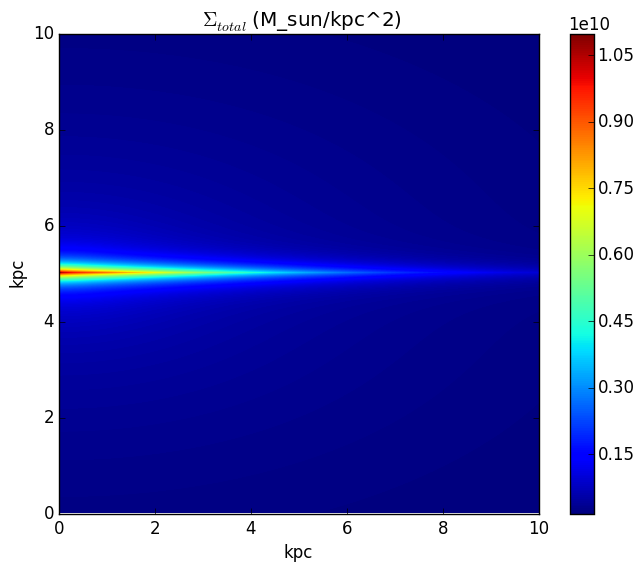
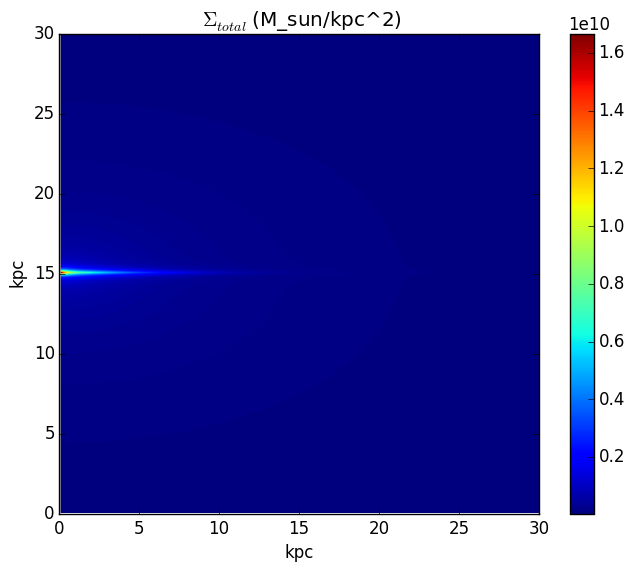
update mass fraction code

diff --git a/python/disky_lineofsight.py b/python/disky_lineofsight.py
@@ -3,6 +3,7 @@ import matplotlib.pyplot as plt
 import scipy.special
 import pyfits
 import scipy.interpolate
+import scipy.integrate
 
 # thin disk
 class thin:
@@ -22,8 +23,15 @@ rho_h0=0.00846*10**9
 rh=20.2
 dc=1#.6
 
+# bulge
+alpha=1.8
+r0=0.075
+rcut=2.1
+q=0.5
+rho_b0=9.93e10
 
-# line of sight mass density
+
+# line of sight mass surface density
 def disk(y,z,dtype):
 	sigma=2*dtype.sig/2/dtype.zd*y*np.exp(-1*np.abs(z)/dtype.zd)*scipy.special.kn(1,y/dtype.Rd)
 
@@ -44,15 +52,19 @@ def NFW(y,z):
 	sigma=sigma1+sigma2
 	return sigma
 
+## bulge (3D profile)
 
-def cylinder_massfraction(disk,halo,radius):
-	# disk mass grid, halo mass grid, cylinder radius
+def cylinder_massfraction(disk,bulge,halo,radius):
+	# disk mass grid, bulge mass grid, halo mass grid, cylinder radius
+	# output: log(M_disk),log(M_bulge),log(M_halo),log(M_total),disk mass fraction
+
 	r=np.sqrt(y**2+z**2)
 	flag=np.less_equal(r,radius)
 
 	# flag mass
 	disk=disk*flag
 	halo=halo*flag
+	bulge=bulge*flag
 
 	# get rid of nan
 	disk[:,0]=0.0
@@ -61,11 +73,29 @@ def cylinder_massfraction(disk,halo,radius):
 	mass_d=scipy.interpolate.RectBivariateSpline(dz,dy,disk)
 	mass_d=scipy.interpolate.RectBivariateSpline.integral(mass_d,-radius,radius,0,radius)
 
+	mass_b=scipy.interpolate.RectBivariateSpline(dz,dy,bulge)
+	mass_b=scipy.interpolate.RectBivariateSpline.integral(mass_b,-radius,radius,0,radius)
+
 	mass_h=scipy.interpolate.RectBivariateSpline(dz,dy,halo)
 	mass_h=scipy.interpolate.RectBivariateSpline.integral(mass_h,-radius,radius,0,radius)
 
-	return mass_d/(mass_h+mass_d)
+	return np.log10(mass_d),np.log10(mass_b), np.log10(mass_h), np.log10(mass_h+mass_d+mass_b),mass_d/(mass_h+mass_d+mass_b)
+	#return mass_d/(mass_h+mass_d)
 
+def num_bulge(y,z):
+
+	sigma=np.zeros((len(z),len(y)))
+
+	for i in range(len(z)): # vertical index
+		print i
+		for j in range(len(y)):
+
+			bulge3d=lambda R: R*np.exp(-(R**2+z[i]**2/q**2))/(np.sqrt(R**2-y[j]**2)*(1+np.sqrt(R**2+z[i]**2/q**2)/r0)**alpha)
+			I=scipy.integrate.quad(bulge3d,y[j],np.inf)
+
+			sigma[i,j]=2*rho_b0*I[0]
+
+	return sigma
 
 
 ## plot line of sight desity profile
@@ -77,43 +107,86 @@ z=0.0
 '''
 
 ## 2D plot
-dy=np.linspace(0,10,10*100)
-dz=np.linspace(-10,10,20*100)
+radius=30 # kpc
+dy=np.linspace(0,radius,radius*10)
+dz=np.linspace(-1*radius,radius,2*radius*10)
 
 y,z=np.meshgrid(dy,dz)
 
 disk_thin=disk(y,z,thin)
 disk_thick=disk(y,z,thick)
 halo=NFW(y,z)
+bulge=num_bulge(dy,dz) # numerical bulge doesn't take meshgrid
 
 disk_mass=disk_thin+disk_thick
-total_mass=disk_thin+disk_thick+halo
+total_mass=disk_thin+disk_thick+halo+bulge
 #total_mass=np.log10(total_mass)
 
 
-'''
+
 ## cylinder flag
-
-print cylinder_massfraction(disk_mass,halo,10)
-print cylinder_massfraction(disk_mass,halo,4)
-print cylinder_massfraction(disk_mass,halo,8)
-print cylinder_massfraction(disk_mass,halo,10)
 '''
+enclose_mass=np.zeros((5,4))
+enclose_mass[:,0]=cylinder_massfraction(disk_mass,halo,2)
+enclose_mass[:,1]=cylinder_massfraction(disk_mass,halo,4)
+enclose_mass[:,2]=cylinder_massfraction(disk_mass,halo,8)
+enclose_mass[:,3]=cylinder_massfraction(disk_mass,halo,10)
 
-hdu=pyfits.PrimaryHDU(disk_mass)
-hdu.writeto('disk_project_mass.fits')
+plt.scatter(np.array([2,4,8,10]),enclose_mass[2,:],label='disk+halo',marker='^')
+plt.scatter(np.array([2,4,8,10]),enclose_mass[0,:],label='disk',color='r')
+plt.scatter(np.array([2,4,8,10]),enclose_mass[1,:],color='g',label='halo')
+plt.xlabel('kpc')
+plt.ylabel('log(M)')
+plt.title('log(enclosed total mass)')
+plt.legend(loc=4)
 
 '''
+mass_r=np.array([1,2,4,6,8,10,15,20,25,30])
+mass_f=np.zeros((len(mass_r),5))
+
+for i in range(len(mass_r)):
+	mass_f[i,:]=cylinder_massfraction(disk_mass,bulge,halo,mass_r[i])
+
+#print mass_f.shape
+
+plt.figure(1)
+plt.scatter(mass_r,mass_f[:,4])
+plt.axvline(x=2,ymax=0.7)
+plt.xlabel('kpc')
+plt.ylabel('mass fraction')
+plt.title('disk mass fraction')
+
+#plt.show()	
+plt.savefig('disk mass fraction.png',bbox_inches='tight')
+
+
+plt.figure(2)
+plt.scatter(mass_r,mass_f[:,3],label='total',marker='^')
+plt.scatter(mass_r,mass_f[:,0],label='disk',color='r')
+plt.scatter(mass_r,mass_f[:,2],color='g',label='halo')
+plt.scatter(mass_r,mass_f[:,1],label='bulge')
+plt.axvline(x=2,ymax=11.5)
+plt.xlabel('kpc')
+plt.ylabel('log(M)')
+plt.title('log(enclosed total mass)')
+plt.legend(loc=2)
+
+plt.savefig('total enclose mass.png',bbox_inches='tight')
+
+#hdu=pyfits.PrimaryHDU(disk_mass)
+#hdu.writeto('disk_project_mass.fits')
+
+
 ## save figure
-
-plt.imshow(total_mass,extent=[0,10,0,10])
+plt.figure(3)
+plt.imshow(total_mass,extent=[0,radius,0,radius])
 plt.colorbar()
 plt.xlabel('kpc')
 plt.ylabel('kpc')
 plt.title( r' $\Sigma_{total}$ (M_sun/kpc^2)')
 #plt.show()
 plt.savefig('total_project_mass.png',bbox_inches='tight')
-'''
+
 
 '''
 ## 1D projected mass profile
